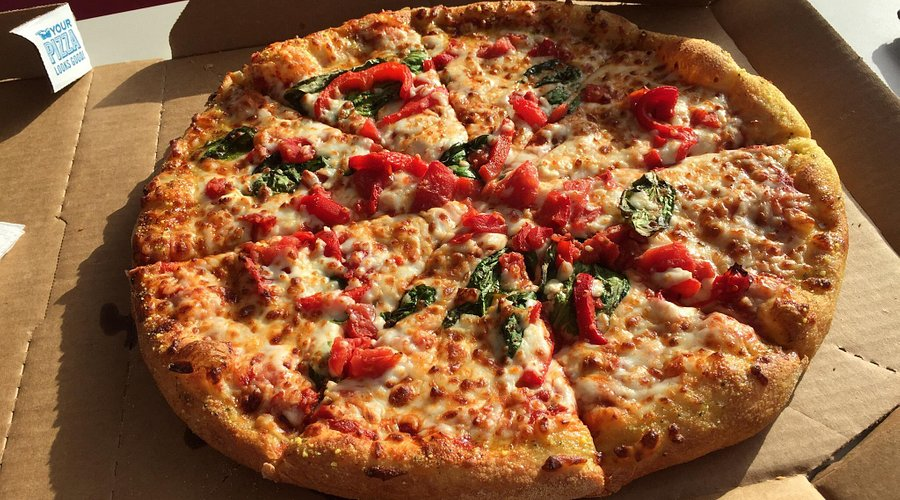
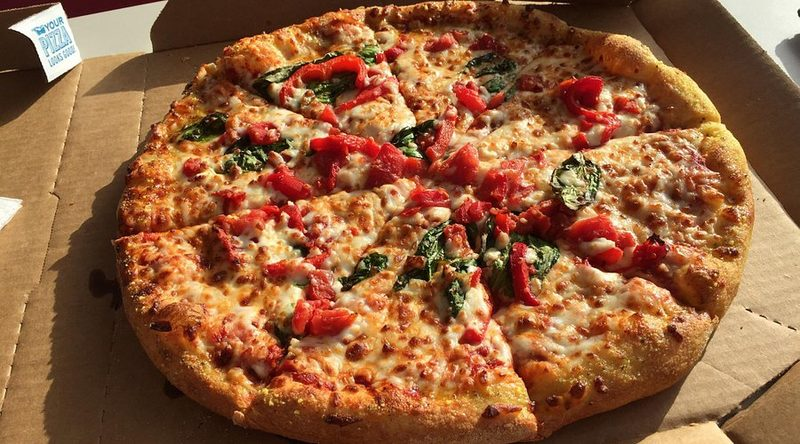
perf: compress oversized landing images (15.8 MB -> ~0.45 MB)
RedDot_Burger.jpg was a 5616x3744 DSLR original (14 MB) rendered in a
~176px card — the single biggest mobile slowdown on the landing page.
Resized/recompressed the oversized assets to their display dimensions:

- RedDot_Burger.jpg          14391 KB -> 137 KB  (-99%)
- photo-1513104890138.jpg      942 KB -> 342 KB  (-64%)
- craveit-logo-transparent     292 KB ->  32 KB  (-90%)
- domino-s-pizza.jpg           136 KB ->  98 KB  (-28%)

Also added loading="lazy" to below-the-fold gallery images so they no
longer compete with the initial paint (logo + hero stay eager).

Changed region(s): [[0.5312, 0.527, 0.5625, 0.5856], [0.7188, 0.3806, 0.75, 0.4099], [0.5625, 0.5856, 0.5938, 0.6149]]

diff --git a/Frontend/src/app/pages/landing/landing.component.html b/Frontend/src/app/pages/landing/landing.component.html
@@ -136,22 +136,22 @@
       <p class="text-center text-textMuted text-sm mb-6">Restaurants using CraveIt serve everything from</p>
       <div class="grid grid-cols-2 md:grid-cols-4 gap-3">
         <div class="relative rounded-2xl overflow-hidden h-44 group">
-          <img src="assets/RedDot_Burger.jpg" alt="Burgers" class="w-full h-full object-cover group-hover:scale-105 transition-transform duration-500" />
+          <img loading="lazy" src="assets/RedDot_Burger.jpg" alt="Burgers" class="w-full h-full object-cover group-hover:scale-105 transition-transform duration-500" />
           <div class="absolute inset-0 bg-gradient-to-t from-black/60 to-transparent"></div>
           <p class="absolute bottom-3 left-3 text-white text-sm font-semibold">Burgers</p>
         </div>
         <div class="relative rounded-2xl overflow-hidden h-44 group">
-          <img src="assets/domino-s-pizza.jpg" alt="Pizza" class="w-full h-full object-cover group-hover:scale-105 transition-transform duration-500" />
+          <img loading="lazy" src="assets/domino-s-pizza.jpg" alt="Pizza" class="w-full h-full object-cover group-hover:scale-105 transition-transform duration-500" />
           <div class="absolute inset-0 bg-gradient-to-t from-black/60 to-transparent"></div>
           <p class="absolute bottom-3 left-3 text-white text-sm font-semibold">Pizza</p>
         </div>
         <div class="relative rounded-2xl overflow-hidden h-44 group">
-          <img src="assets/istockphoto-1419247070-612x612.jpg" alt="Local favourites" class="w-full h-full object-cover group-hover:scale-105 transition-transform duration-500" />
+          <img loading="lazy" src="assets/istockphoto-1419247070-612x612.jpg" alt="Local favourites" class="w-full h-full object-cover group-hover:scale-105 transition-transform duration-500" />
           <div class="absolute inset-0 bg-gradient-to-t from-black/60 to-transparent"></div>
           <p class="absolute bottom-3 left-3 text-white text-sm font-semibold">Local food</p>
         </div>
         <div class="relative rounded-2xl overflow-hidden h-44 group">
-          <img src="assets/istockphoto-468676382-612x612.jpg" alt="More cuisines" class="w-full h-full object-cover group-hover:scale-105 transition-transform duration-500" />
+          <img loading="lazy" src="assets/istockphoto-468676382-612x612.jpg" alt="More cuisines" class="w-full h-full object-cover group-hover:scale-105 transition-transform duration-500" />
           <div class="absolute inset-0 bg-gradient-to-t from-black/60 to-transparent"></div>
           <p class="absolute bottom-3 left-3 text-white text-sm font-semibold">Homemade meals</p>
         </div>
@@ -288,10 +288,10 @@
         </div>
         <div class="grid grid-rows-2 gap-3">
           <div class="rounded-2xl overflow-hidden">
-            <img src="assets/istockphoto-1485677116-612x612.jpg" alt="Food" class="w-full h-full object-cover" />
+            <img loading="lazy" src="assets/istockphoto-1485677116-612x612.jpg" alt="Food" class="w-full h-full object-cover" />
           </div>
           <div class="rounded-2xl overflow-hidden">
-            <img src="assets/RedDot_Burger.jpg" alt="Burger" class="w-full h-full object-cover" />
+            <img loading="lazy" src="assets/RedDot_Burger.jpg" alt="Burger" class="w-full h-full object-cover" />
           </div>
         </div>
       </div>